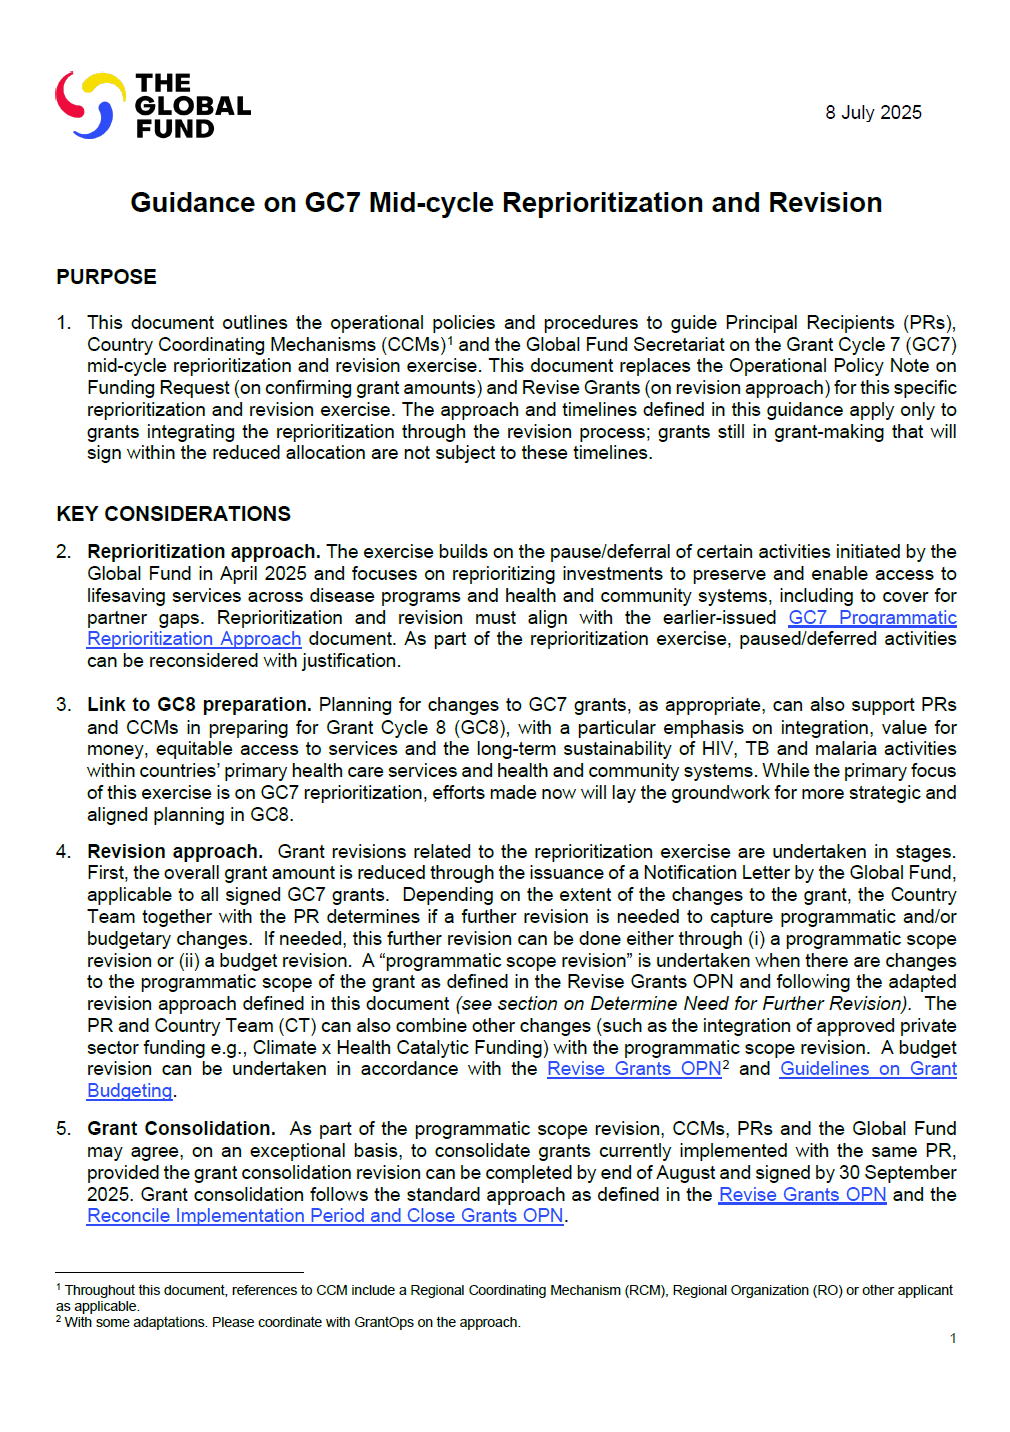
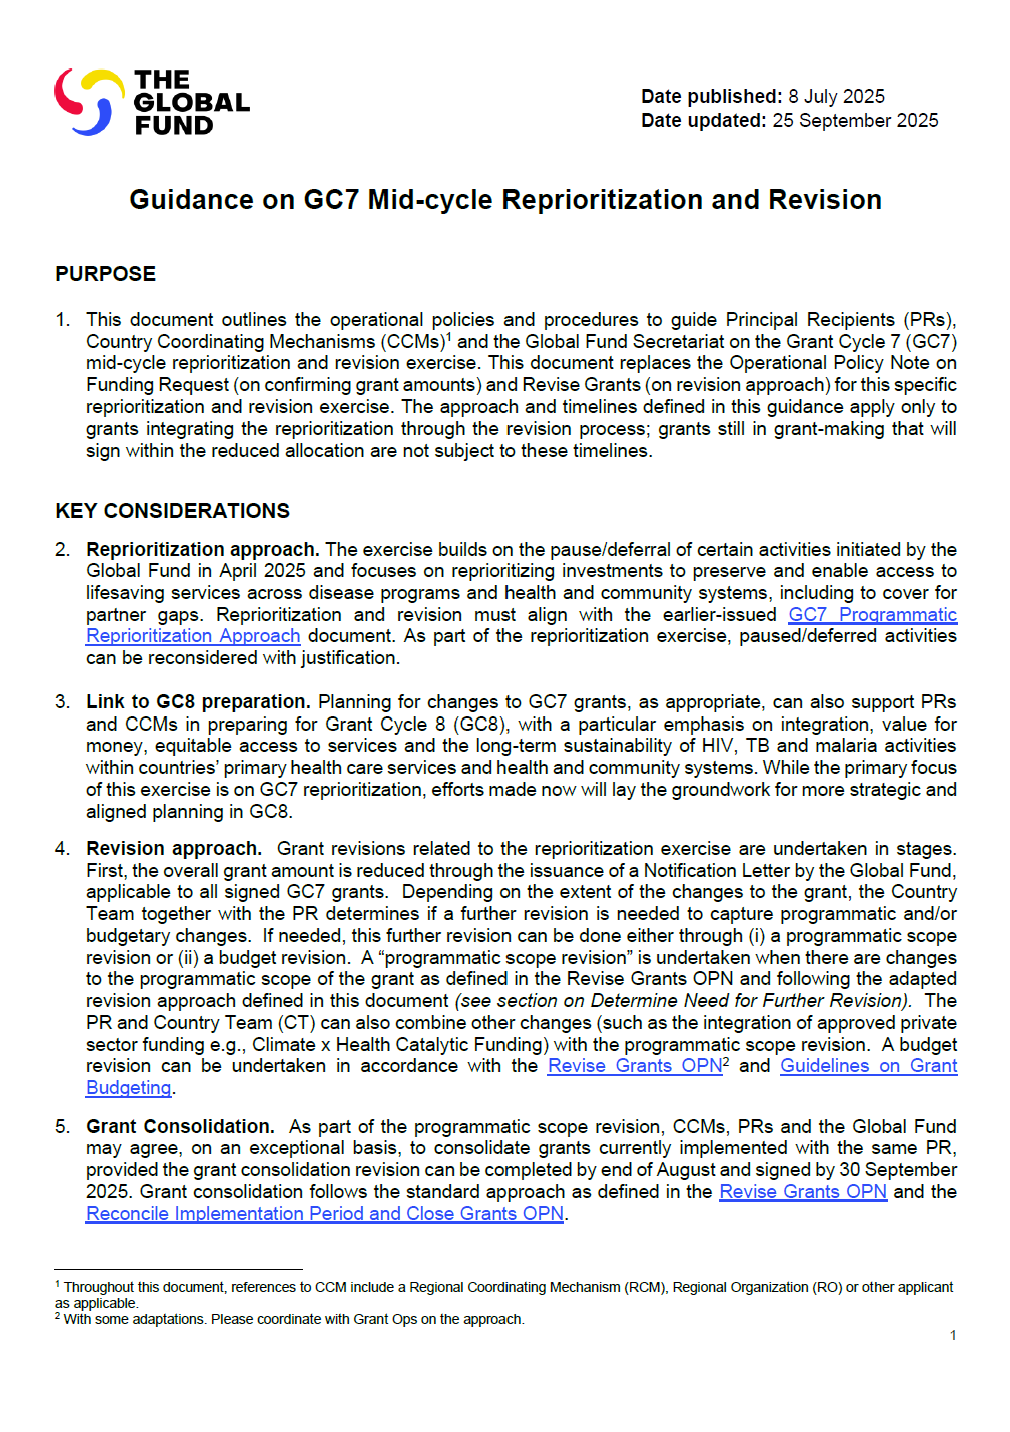
updated guidance gc7

diff --git a/resources.html b/resources.html
@@ -212,7 +212,15 @@ document.addEventListener('DOMContentLoaded', () => {
         <div class="image-grid">
           <div class="image-item" data-language="english">
               <a href="https://resources.theglobalfund.org/media/mlxjgt0n/cr_gc7-reprioritization-revision_guidance_en.pdf"><img src="images/gf-gc7-guidance.png" alt="Guidance on GC7 Mid-cycle Reprioritization and Revision"></a>
-              <a href="https://resources.theglobalfund.org/media/mlxjgt0n/cr_gc7-reprioritization-revision_guidance_en.pdf"><h5>Guidance on GC7 Mid-cycle Reprioritization and Revision (8 July 2025)</h5></a>
+              <a href="https://resources.theglobalfund.org/media/mlxjgt0n/cr_gc7-reprioritization-revision_guidance_en.pdf"><h5>Guidance on GC7 Mid-cycle Reprioritization and Revision (25 September 2025)</h5></a>
+          </div>
+          <div class="image-item" data-language="french">
+              <a href="https://resources.theglobalfund.org/media/0rrh05k0/cr_gc7-reprioritization-revision_guidance_fr.pdf"><img src="images/gf-gc7-guidance-fr.png" alt="Orientations relatives à la redéfinition des priorités et à la révision à mi-parcours du CS7"></a>
+              <a href="https://resources.theglobalfund.org/media/0rrh05k0/cr_gc7-reprioritization-revision_guidance_fr.pdf"><h5>Orientations relatives à la redéfinition des priorités et à la révision à mi-parcours du CS7 (25 septembre 2025)</h5></a>
+          </div>
+          <div class="image-item" data-language="spanish">
+              <a href="https://resources.theglobalfund.org/media/kbspaanf/cr_gc7-reprioritization-revision_guidance_es.pdf"><img src="images/gf-gc7-guidance-es.png" alt="Orientaciones sobre la repriorización y revisión a mitad del Séptimo Ciclo de Subvenciones"></a>
+              <a href="https://resources.theglobalfund.org/media/kbspaanf/cr_gc7-reprioritization-revision_guidance_es.pdf"><h5>Orientaciones sobre la repriorización y revisión a mitad del Séptimo Ciclo de Subvenciones (25 septiembre 2025)</h5></a>
           </div>
           <div class="image-item" data-language="english">
               <a href="resources/Grant Adaptation Measures for Global Fund Grant Cycle 7 - A Guide for Communities.pdf"><img src="images/gc7-community-hubs.png" alt="Grant Adaptation Measures for Global Fund Grant Cycle 7 - A Guide for Communities"></a>
